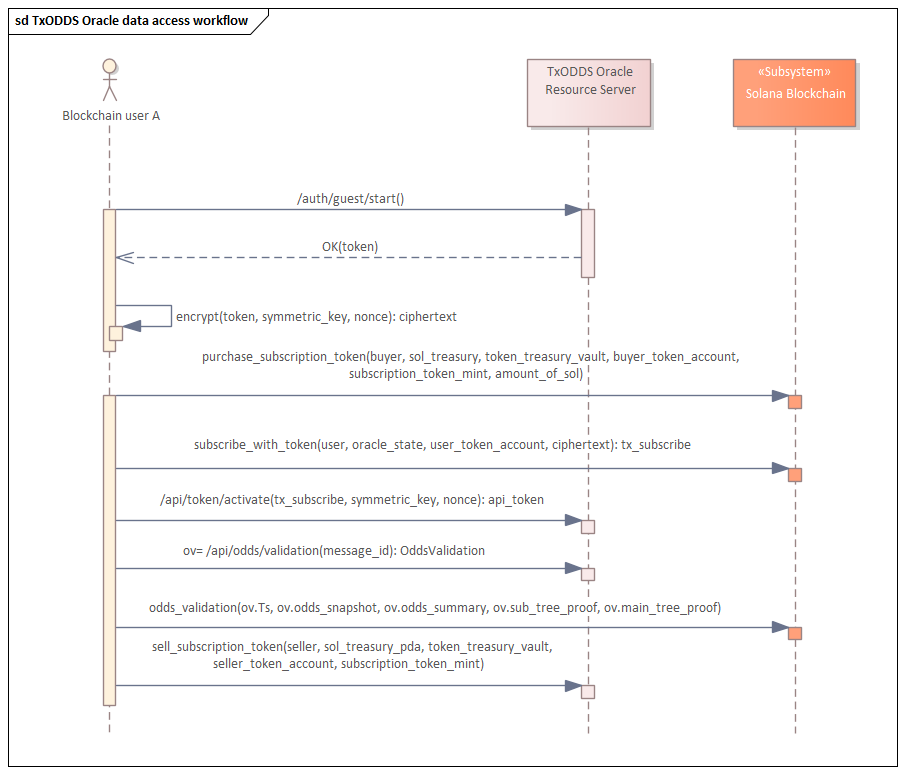
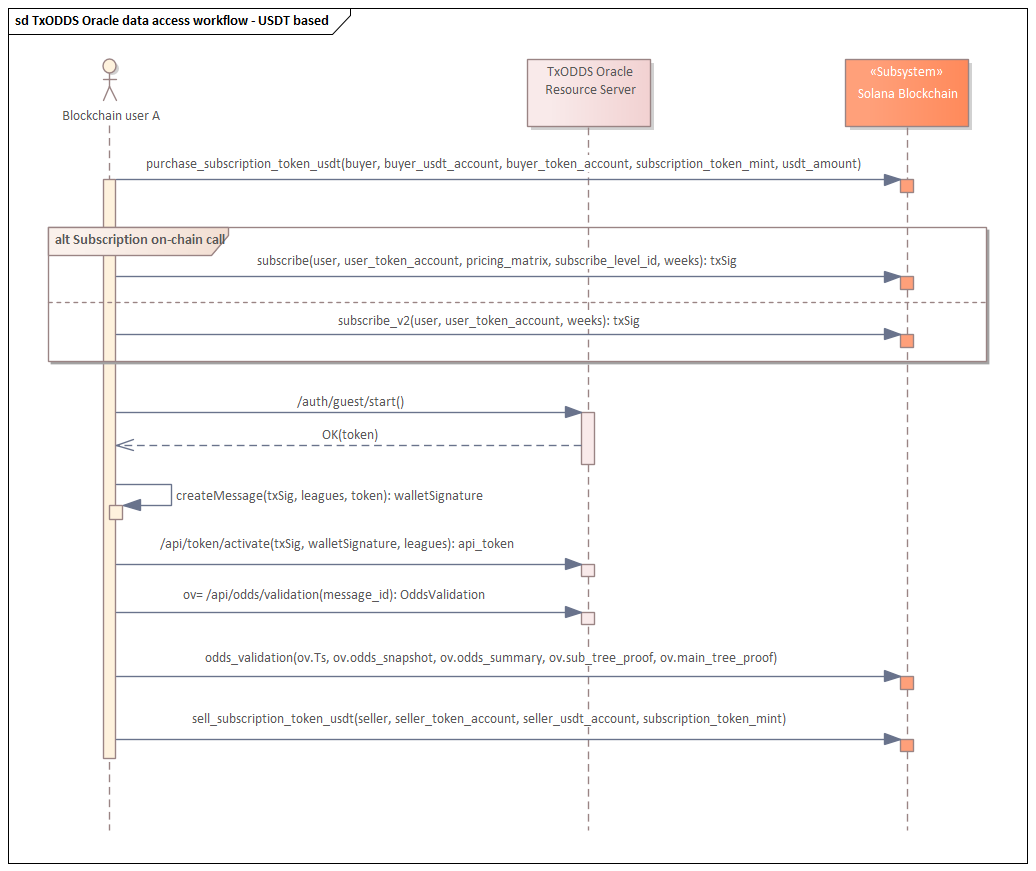
NOJIRA Update the subscription flow diagram, restore trading flow

diff --git a/README.md b/README.md
@@ -23,7 +23,7 @@ TxLINE is a hybrid Solana on-chain and TxODDS hosted off-chain system. It suppor
 
 The following is a basic diagram showing the system in operation.
 
-![Alt text](assets/TxODDS%20Oracle.png?raw=true "TxODDS Oracle")
+![Alt text](docs/assets/TxODDS%20Oracle.png?raw=true "TxODDS Oracle")
 
 The OpenAPI documentation is available at
    - https://oracle-dev.txodds.com/docs for Solana DevNet use.
@@ -112,9 +112,9 @@ only require a JWT token (see below) to serve the snapshots or an SSE stream of 
 
 The `scores` channel includes the fully detailed model of US football and upcoming US baketball as otherwise avaiable using direct B2B sales offered to big betting operators and syndicats. The documentation for this feed is available at the above API endpoints and also in the included documents:
 
-[TxODDS US Football Feed v1.13](assets/txodds-us-football-feed-v1.13.pdf)
+[TxODDS US Football Feed v1.13](docs/assets/txodds-us-football-feed-v1.13.pdf)
 
-[TxODDS US Baskeball Feed v1.12](assets/txodds-basketball-feed-v1.12.pdf)
+[TxODDS US Baskeball Feed v1.12](docs/assets/txodds-basketball-feed-v1.12.pdf)
 
 In contrast to the B2B offering, (limited) historical access to data is also included.
 
@@ -144,7 +144,7 @@ Token Mint: sLX1i9dfmsuyFBmJTWuGjjRmG4VPWYK6dRRKSM4BCSx
 
 The following diagram shows how the users typically access data from purchasing the subscription tokens to issuing off-chain calls.
 
-![Alt text](assets/TxODDS%20Oracle%20data%20access%20workflow.png?raw=true "TxODDS Oracle data access workflow")
+![Alt text](docs/assets/TxODDS%20Oracle%20data%20access%20workflow.png?raw=true "TxODDS Oracle data access workflow")
 
 ### 1. Purchase Tokens
 
@@ -294,6 +294,32 @@ Validates scores data using on-chain cryptographic proofs.
 5. Executes on-chain validation against daily scores roots account
 6. Cryptographically proves the stat
    
+## Trading Flow
+
+The following diagram gives an overview of how binary options predication markets work with TxODDS Oracle.
+
+![Alt text](docs/assets/TxODDS%20Oracle%20trading%20workflow.png?raw=true "TxODDS Oracle trading workflow")
+
+Trading is based on predictions of what one or two stats will be in a given phase of the game (currently covering US Football).
+
+Importantly, there are two time periods involved:
+
+1. **Claim period**: the phase of the game where an event that matches the prediction will happen.
+2. **Stat period**: the phase of the game for which the respective stats are computed.
+
+A prediction will be confirmed IF AND ONLY IF there exists a record with confirmed stats within the given **claim period/game phase** that meets the prediction condition. For the prediction to be settled and funds dispersed according to the result, the winner side sibmits a proof of such record matching the trade details in their favour that can be validated on-chain to have existed within this phase of the game.
+
+This is an example to help with understanding these two time periods.
+
+### Example
+
+Prediction might concern the margin of difference between the counts of touchdowns in Q2 of the game. In this case, Q2 is the **stat period**. The question is when it is predicted this margin will have occurred.
+The **claim period** could be set to end of Q2, that is what is known in the TxODDS scores product as HT--the half-time break in the game.
+
+Another prediction could be set to be based on a stat that is related to the first half of the game, so the **stat period** could be easily adjusted to become H1 and then the nature of the prediction changes accordingly.
+
+There is a further important question: what is the difference between a prediction for the **claim period** Q2 and HT? The latter is very easy to understand: if the prediction concerns a record with confirmed game stats for HT, the stats will correspond to the Q2 (the chosen stat) result--because once the game is in a break, the stats correspond to the result of the previous active phase of the game, which is, in the example, Q2. What happens if the **claim period** is set to Q2 itself? The prediction logic outlined above dictates that there must exist at least a single record within the whole Q2 that matches the full set of prediction conditions. This latter type of predictions could be fully settled as soon as the current 5-minute interval expires (as long as the qualifying event had occurred before its end) supporting very fast turnaround of bets and settlements.
+
 ## Game phase encoding for US Football
 
 For US football, the game phases are encoded in a unique and economical way for easy prediction proofs on-chain.
@@ -848,6 +874,235 @@ The stat period is also encoded economically as follows:
 | 40036 | Participant 2 Total Used timeouts | |
 
 ---
+
+## Trading offer definition
+
+### Specify the stat period
+
+The Stat period as used in offers and settlements is wrapped in the `StatTerm` class that designates the statistic used for prediction. For example:
+
+```
+{ key: 1 } // Stat key for "Participant1_Score"
+```
+
+### Specify a trading predicate
+
+A trading predicate is wrapped in the `Predicate` class with a nested `ComparisonEnum`. Here is an example in TypeScript:
+
+```
+const predicate = {
+  threshold: 11,
+  comparison: { greaterThan: {} }, 
+};    
+```
+
+Essentially, the trading predicate sets a bar to compare against and accepts three modes for comparison: `greaterThan`, `lessThan`, and `equalTo`. Predicates do not specify what expression 
+or statistics to use, instead, they just capture the actual comparison being made against the specified quantity (threshold).
+
+### Specify an optional binary expression
+
+A binary expression (when not-null) is either `add` or `subtract` is wrapped in the `BinaryOpEnum` class. For example,
+
+binaryOp = {
+   add: {}
+}
+
+## Create a new offer
+
+An `Offer` structure wraps all necessary information for specifying the prediction and associated terms made by the offer originator side (trader). Here is an example of a one-stat prediction:
+
+```
+const predicate = {
+  threshold: 11,
+  comparison: { greaterThan: {} }, 
+};    
+
+const offer = new schema.Offer({
+   fixtureId: new BN(17271370),
+   period: 4, // Q2
+   predicate,
+   binaryOp: null, // This is a single-stat predicate
+   statA: { key: 1 }, // Stat key for "Participant1_Score"
+   statB: null,
+   stake: new BN(500_000_000), // 0.5 SOL
+   odds: 2000, // 2.0 decimal odds
+   expiration: new BN(Date.now() + 60 * 60 * 1000), // Expires in 1 hour
+   traderPubkey: user.publicKey,
+});
+```
+
+The `odds` are decimal odds, multiplied by 1000 to preserve a three-decimal point precision. The decimal odds mean that if the prediction turns out to be true, trader A stands to double their original stake--with
+the eventual counter-party losing the amount of tokens equivalent to 0.5 SOL.
+The offer states that the specified fixture during the half-time break is going to have the team A's total score greater than 11--this being the result after the two quarters are fully played. The offer will be self-managed so that after an hour from the offer submission, the matching by counter-parties will be disabled.
+
+Once the offer is acknoledged by the TxODDS off-chain service, the subscribers to the `/trading/stream` will receive a nottification `NewOffer` that looks like this:
+
+```
+{ offerId: 6,
+  offer:
+   {
+      fixtureId: 17271370,
+      period: 4,
+      predicate: { threshold: 11, comparison: { type: 'GreaterThan' } },
+      binaryOp: null,
+      statA: { key: 2 },
+      statB: null,
+      stake: 500000000,
+      odds: 2000,
+      expiration: 1758365295729,
+      traderPubkey: '8g2nck8iiaZNjaXA9doPRabA9k1CBKqThPcADfhvC1tF'
+      }
+}
+```
+
+### Accept a new offer
+
+A counter-party trader B may elect to accept this offer, which means that they are confident that the odds of 2.0 that trader A specified are too low, meaning trader B believes the prediction in the offer is unlikely to succeed at these odds. This is how trader B accepts the offer:
+
+```
+const messageBuffer = new BN(offerIdToAccept).toBuffer('le', 4);
+const signature = nacl.sign.detached(messageBuffer, user.secretKey);
+
+const acceptancePayload = {
+   offerId: offerIdToAccept,
+   acceptingTraderPubkey: user.publicKey.toBase58(),
+   signature: bs58.encode(signature),
+};
+
+const response = await axios.post(`${API_BASE_URL}/api/trading/accept`, acceptancePayload, {
+   headers: {
+      'Authorization': `Bearer ${jwt}`,
+      'X-Api-Token': apiToken
+   }
+});
+```
+
+Once the TxODDS of-chain service receives a counter-offer on the `accept` endpoint, it creates a new unsigned Solana transaction `create_trade` and sends it to both trades for signing via this `SigningRequest` message:
+
+```
+{
+   tradeId: 6,
+   partiallySignedTx: 'abc',
+   recipientPubkey: 'abc'
+}
+```
+
+### Both parties sign the trade
+
+For the `create_trade` to be executable on blockchain, it needs to have three signers: both traders and the authority behind the `txoracle` program belonging to TxODDS. The latter is obviously readily available to our off-chain service but the former two signatures need to be explicitly collected from traders. The above `SigningRequest` is received by both traders and each use a similar method to sign and send it back to the TxODDS service.
+
+```
+const messageToSign = Buffer.from(data.partiallySignedTx, 'base64');
+const signature = nacl.sign.detached(messageToSign, user.secretKey);
+
+const signaturePayload = {
+   tradeId: data.tradeId,
+   signer: user.publicKey.toBase58(),
+   signature: bs58.encode(signature),
+};
+
+await axios.post(`${API_BASE_URL}/api/trading/sign`, signaturePayload, {
+   headers: {
+   'Authorization': `Bearer ${jwt}`,
+   'X-Api-Token': apiToken
+   }
+});
+```
+
+Once the TxODDS off-chain service receives both signatures, it signs the unsigned transaction with those signatures, adds the TxODDS authority signature and submits the trade to the Solana blockchain using a fully signed `create_trade` transaction.
+
+The TxODDS service then copies the same `TradeMatched` notifications to respective trading streams for both traders.
+
+```
+{
+   offer: {
+   fixtureId: 17271370,
+   period: 4,
+   predicate: { threshold: 11, comparison: { type: 'GreaterThan' } },
+   binaryOp: null,
+   statA: { key: 1 },
+   statB: null,
+   stake: 500000000,
+   odds: 2000,
+   expiration: 1758366631894,
+   traderPubkey: '8g2nck8iiaZNjaXA9doPRabA9k1CBKqThPcADfhvC1tF'
+   }
+}
+```
+
+### The winning trader submits a `settle_trade` transaction directly to the `txoracle` program on blockchain
+
+Both traders manage their positions by front-running their subscriptions to the odds and scores channels. Once one of them is clear the predication can be resolved in their favour (there can be only one winner to any given predicate), they call the off-chain TxODDS service to obtain a partial proof of the scores record that settles the prediction in their favour and then call the `txoracle` program with this proof.
+
+```
+const url = `${API_BASE_URL}/api/scores/stat-validation?fixtureId=17271370&seq=401&statKey=1`
+const response = await axios.get(url, {
+   headers: {
+      'Authorization': `Bearer ${jwt}`,
+      'X-Api-Token': apiToken
+   }
+});
+```
+
+The `seq` uniquely identified the scores update from the scores feed for the fixture in the original offer. The putative winner can locally check that the scores event they consumed will be resolved in their favour. In our worked example, trader B is the winner bacause the actual team A score was not > than 11. Here is the call to on-chain to settle the trade.
+
+```
+const [dailyScoresPda, _] = anchor.web3.PublicKey.findProgramAddressSync(
+   [
+      Buffer.from("daily_scores_roots"),
+      new BN(epochDay).toBuffer("le", 2), // epochDay is u16, so 2 bytes little-endian
+   ],
+   program.programId
+);
+
+const [tradeEscrowPda] = PublicKey.findProgramAddressSync(
+   [
+      Buffer.from("escrow"), 
+      tradeId.toBuffer("le", 8)
+   ],
+   program.programId
+);
+
+const [escrowVaultPda] = PublicKey.findProgramAddressSync(
+   [
+      Buffer.from("escrow_vault"), 
+      tradeId.toBuffer("le", 8)
+   ],
+   program.programId
+);
+
+const txSignature = await program.methods
+   .settleTrade(
+      tradeId,
+      new BN(validation.ts),
+      fixtureSummary,
+      fixtureProof,
+      mainTreeProof,
+      predicate,
+      stat1,
+      null, // stat2
+      null // op
+   )
+   .accounts({
+      winner: user.publicKey,
+      dailyScoresMerkleRoots: dailyScoresPda,
+      tradeEscrow: tradeEscrowPda,
+      escrowVault: escrowVaultPda,
+      winnerTokenAccount: tokenAccount.address,
+      tokenProgram: TOKEN_PROGRAM_ID,
+   })
+   .preInstructions([
+      ComputeBudgetProgram.setComputeUnitLimit({
+      units: 600_000, // max: 1.4M
+      }),
+   ])
+   .signers([user])
+   .rpc();
+```
+
+The outcome of a successfully settled trade is that the funds are released from the escrow account and transferred to trader B's token account and then the escrow is fully closed. Here is an example of such settlement on DevNet:
+
+https://explorer.solana.com/tx/f7t9VqWyumtqAeFuFqRhp8t6QX693h68ZZ5Wa4pe1ebbEusuuRyLDgo4ARpQ4GS8P1CkW6xvstBtQi4z8cyfSup?cluster=devnet
 
 ## Additional Documentation
 
